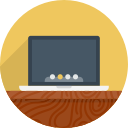
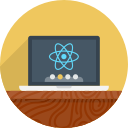
some adjustments

Changed region(s): [[0.375, 0.3125, 0.625, 0.5625]]

diff --git a/src/_sass/_layout.scss b/src/_sass/_layout.scss
@@ -1,3 +1,6 @@
+
+$default-width: 520px;
+
 /**
  * Site header
  */
@@ -14,6 +17,7 @@
 ul.post-list {
   list-style: none;
   text-align: left;
+  margin-left: 0 !important;
 
   li {
     padding: 0 0 20px;
@@ -28,11 +32,44 @@ ul.post-list {
       font-weight: 300;
       font-size: 18px;
       color: $byline-gray;
+      margin-left: 5px;
       opacity: .8;
     }
   }
 }
 
+.dashed-line {
+  position: relative;
+  width: $default-width;
+  margin: 0 auto;
+  height: 4px;
+  border-radius: 2px;
+  font-size: 0; /* patch hidden padding */
+  display: flex;
+  flex-direction: row;
+  overflow: hidden;
+
+  .-dash {
+    display: inline-block;
+    flex: 1;
+    height: 100%;
+    width: 25%;
+  }
+
+  .-dash-red {
+    flex: 2;
+    background: $theme-red;
+  }
+  .-dash-blue {
+    background: $theme-blue;
+  }
+  .-dash-yellow {
+    background: $theme-yellow;
+  }
+  .-dash-green {
+    background: $theme-green;
+  }
+}
 
 /**
  * Links
@@ -74,6 +111,12 @@ a.white {
 	background: url(../img/profile_alt.jpg) 30% 35% no-repeat;
 	/* background: url(../img/profile.jpg) 50% 0% no-repeat; */
   background-size: 175%;
+  border-width: 0px;
+  border-style: solid;
+  border-top-color: $theme-red;
+  border-left-color: $theme-blue;
+  border-bottom-color: $theme-yellow;
+  border-right-color: $theme-green;
   display: block;
   position: relative;
   margin: 0 auto 10px;
@@ -92,6 +135,9 @@ a.white {
 .pulse-orb {
   width: 90px;
   height: 90px;
+  border-width: 0px;
+  border-style: solid;
+  border-top-color: transparent;;
   border-radius: 50%;
   position: absolute;
   top: 0;
@@ -123,8 +169,6 @@ a.white {
   }
 }
 
-$default-width: 520px;
-
 .home {
   padding: 50px 0 0;
   width: $default-width;
@@ -136,20 +180,19 @@ $default-width: 520px;
 .footer {
   width: $default-width;
   position: relative;
-  margin: 50px auto 0;
+  margin: 25px auto 0;
   padding: 40px 0 0;
   border-top: 1px solid $border-gray;
 
   p {
-    color: $byline-gray;
-    opacity: .8;
+    opacity: .4;
     font-size: 14px;
-    margin-bottom: 53px;
+    margin-bottom: 23px;
   }
 }
 
 @media (max-width: 560px) {
-  .home, .footer {
+  .home, .footer, .dashed-line {
     width: 100% !important;
   }
 }
@@ -175,34 +218,38 @@ $default-width: 520px;
 
   .icon-container {
     display: table-cell;
-    width: 100px;
+    width: 75px;
 
     .icon {
       background-color: $red;
       background-repeat: no-repeat;
       background-position: 50%;
       background-size: cover;
-      height: 70px;
-      width: 70px;
+      height: 50px;
+      width: 50px;
       border-radius: 100%;
       position: absolute;
       top: 25px;
     }
 
-    .-heart {
-      background-image: url(../img/heart.png);
-      background-color: transparent;
-    }
     .-laptop {
+      background-color: $theme-red;
       background-image: url(../img/laptop.png);
       background-color: transparent;
     }
+    .-heart {
+      background-color: $theme-blue;
+      background-image: url(../img/heart.png);
+      background-color: transparent;;
+    }
     .-pencil {
+      background-color: $theme-yellow;
       background-image: url(../img/pencil.png);
       background-color: transparent;
     }
     .-social {
-      background-image: url(../img/social.png);
+      background-color: $theme-green;
+      background-image: url(../img/helmet.png);
       background-color: transparent;
     }
   }
@@ -251,8 +298,8 @@ $default-width: 520px;
   width: 100%;
   padding: 40px 0;
   margin: 65px 0 40px;
-  border-top: 1px solid $border-gray;
-  border-bottom: 1px solid $border-gray;
+  /* border-top: 1px solid $border-gray; */
+  /* border-bottom: 1px solid $border-gray; */
 
   .post-row {
     display: table-row;
@@ -287,7 +334,7 @@ $default-width: 520px;
       }
     }
   }
-  
+
   span {
     display: block;
     font-size: $small-font-size;
@@ -297,4 +344,3 @@ $default-width: 520px;
     color: $byline-gray;
   }
 }
-

diff --git a/src/_sass/_base.scss b/src/_sass/_base.scss
@@ -36,13 +36,12 @@ body {
   animation-name: emitting;
   -webkit-animation-name: emitting;
 
-  animation-duration: 4s; 
+  animation-duration: 4s;
   -webkit-animation-duration: 4s;
 
   animation-iteration-count: infinite;
   -webkit-animation-iteration-count: infinite;
 }
-
 @keyframes emitting {
   0% {
     opacity: 1;
@@ -56,7 +55,6 @@ body {
     box-shadow: 0 0 0 100px $light-red, 0 0 0 104px $dark-red;
   }
 }
-
 @-webkit-keyframes emitting {
   0% {
     opacity: 1;
@@ -71,14 +69,15 @@ body {
   }
 }
 
+
+
 .-single-emit {
   animation-name: emit;
   -webkit-animation-name: emit;
 
-  animation-duration: 4s; 
+  animation-duration: 4s;
   -webkit-animation-duration: 4s;
 }
-
 @keyframes emit {
   0% {
     opacity: 1;
@@ -92,7 +91,6 @@ body {
     box-shadow: 0 0 0 100px $light-red, 0 0 0 104px $dark-red;
   }
 }
-
 @-webkit-keyframes emit {
   0% {
     opacity: 1;
@@ -108,11 +106,13 @@ body {
 }
 
 
+
+
 .-slideInRight {
   animation-name: slideInRight;
   -webkit-animation-name: slideInRight;
 
-  animation-duration: 0.5s; 
+  animation-duration: 0.5s;
   -webkit-animation-duration: 0.5s;
 
   animation-timing-function: ease;
@@ -120,7 +120,6 @@ body {
 
   visibility: visible !important;
 }
-
 @keyframes slideInRight {
   0% {
     opacity: 0;
@@ -134,7 +133,6 @@ body {
     transform: translateX(0px);
   }
 }
-
 @-webkit-keyframes slideInRight {
   0% {
     opacity: 0;

diff --git a/src/index.html b/src/index.html
@@ -10,7 +10,7 @@ permalink: /
     <div class="icon -laptop"></div>
   </div>
   <div class="content">
-    <h3>Current Projects</h3>
+    <h3>What I've Been Up To</h3>
     <p>I'm working on <a target="_blank" href="https://robinpowered.com/">Robin Powered</a>, making it easier to manage your meeting rooms. Working with <a target="_blank" href="https://facebook.github.io/react-native/">React Native</a> and <a target="_blank" href="http://redux.js.org/docs/basics/UsageWithReact.html">Redux</a> for both <a target="_blank" href="http://www.apple.com/ios/">iOS</a> and <a target="_blank" href="https://www.android.com/">Android</a> mobile applications.</p>
   </div>
 </div>
@@ -20,7 +20,7 @@ permalink: /
     <div class="icon -heart"></div>
   </div>
   <div class="content">
-    <h3>Things I've Made</h3>
+    <h3>Some Things I've Made</h3>
     <p><a target="_blank" href="https://github.com/nickzuber/needle">Needle</a>, <a target="_blank" href="https://github.com/nickzuber/material-paper">Material Paper</a>, <a target="_blank" href="https://github.com/nickzuber/doxide">Doxide</a>, <a target="_blank" href="https://github.com/nickzuber/pulse">Pulse</a>, and <a target="_blank" href="https://github.com/nickzuber/jaz">Jaz</a> are a few of my projects. You can find more on <a target="_blank" href="https://github.com/nickzuber">GitHub</a>.</p>
   </div>
 </div>

diff --git a/src/css/main.scss b/src/css/main.scss
@@ -25,7 +25,14 @@ $base-line-height: 21px;
 $mono-font:        12px/1.5 'Source Code Pro', monospace !important;
 $spacing-unit:     30px;
 
-// Colors
+// Custom Colors
+
+$theme-green: #2cb673;
+$theme-red: #fe4a49;
+$theme-yellow: #ffec34;
+$theme-blue: #4a90e2;
+
+// Robin Colors
 
 $dark-red: #EB3349;
 $red: #EE3F46;
@@ -64,7 +71,7 @@ $pale-navy: #D2DAE1;
 
 $gray: #666666;
 $byline-gray: #999999;
-$border-gray: #DDDDDD;
+$border-gray: #E3E3E3;
 $border-alt: #EBEBEB;
 $background-gray: #F4F6F9;
 

diff --git a/src/_sass/_robinstrap.scss b/src/_sass/_robinstrap.scss
@@ -2668,7 +2668,7 @@ ul.pill-set li a.sortSelected {
 }
 [class^="icon-"],
 [class*=" icon-"] {
-  
+
   font-family: 'robin' !important;
   speak: none;
   font-style: normal;
@@ -2676,7 +2676,7 @@ ul.pill-set li a.sortSelected {
   font-variant: normal;
   text-transform: none;
   line-height: 1;
-  
+
   -webkit-font-smoothing: antialiased;
   -moz-osx-font-smoothing: grayscale;
 }

diff --git a/src/_includes/line.html b/src/_includes/line.html
@@ -1,0 +1,6 @@
+<div class="dashed-line">
+  <div class="-dash -dash-red"></div>
+  <div class="-dash -dash-blue"></div>
+  <div class="-dash -dash-yellow"></div>
+  <div class="-dash -dash-green"></div>
+</div>
